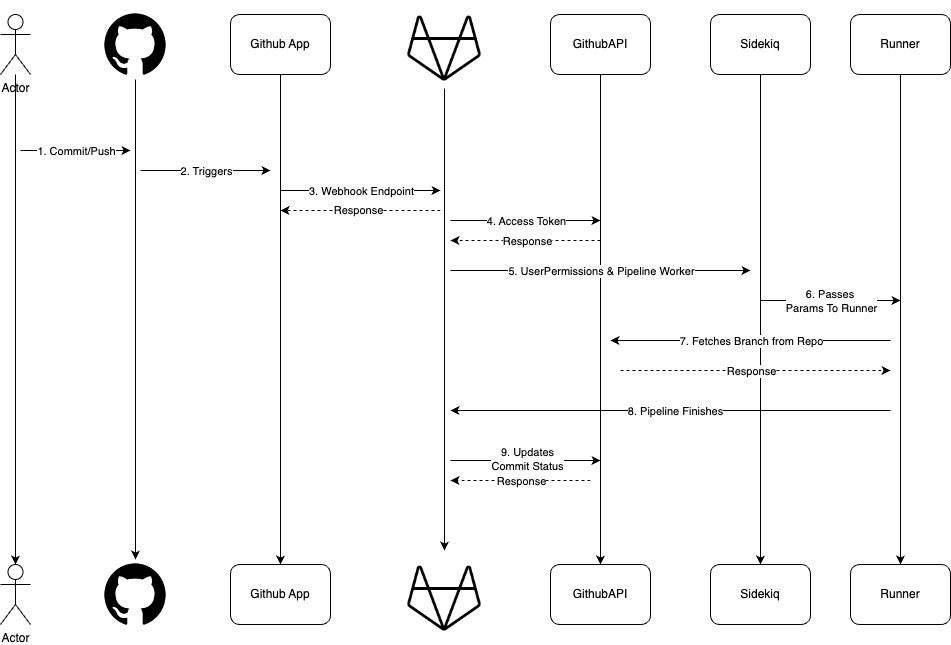
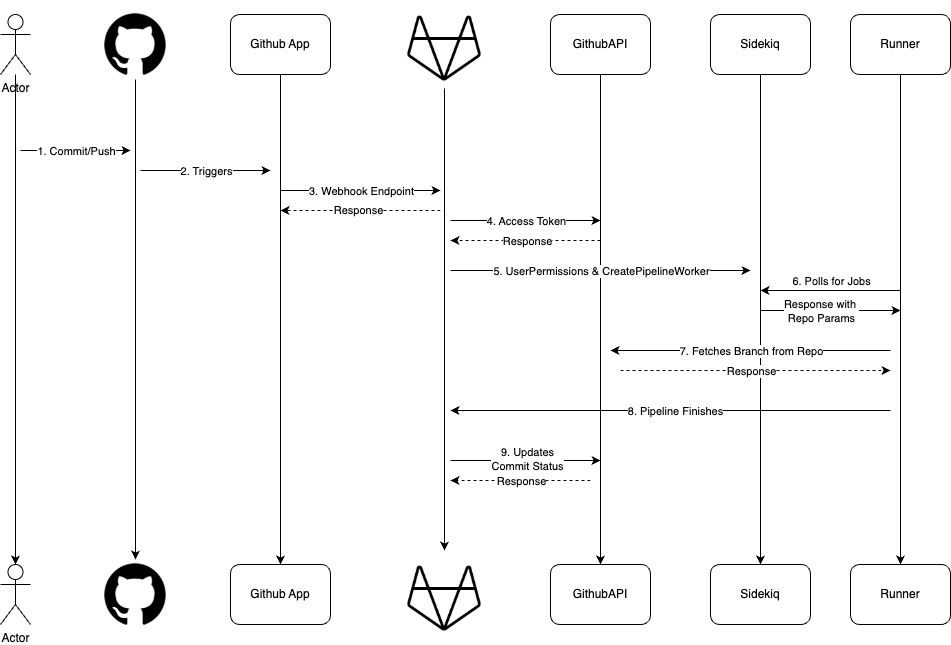
Addressing some more comments

Changed region(s): [[0.7014, 0.4341, 0.9453, 0.5581], [0.5184, 0.4031, 0.7624, 0.4341], [0.6404, 0.5271, 0.6709, 0.5581]]

diff --git a/content/handbook/engineering/architecture/design-documents/ci_pipelines_for_github/_index.md b/content/handbook/engineering/architecture/design-documents/ci_pipelines_for_github/_index.md
@@ -18,9 +18,9 @@ Some customers using Github Source Code Management want to integrate with Gitlab
 
 ## Motivation
 
-Our current approach with Github <-> Gitlab integration is with mirroring at a minimum 5 minute interval. This is too slow for feedback, uses long lived personal access tokens, and requires a copy of GitHub's source code on GitLab.
+Our current approach with Github <-> Gitlab integration is with mirroring at a minimum 5 minute interval. This is too slow for feedback, uses long lived personal access tokens, and requires a copy of GitHub's source code on GitLab. Additionally, as the entire project and all pipelines are run under the user that initiates the integration; this could lead to permission mismatch.
 
-With an adequate solution, we can sell our product to GitHub users that want Gitlab CI/CD.
+With an effective solution, we can sell GitLab CI/CD and other Ops features to business that use GitHub source control.
 
 There are similar tools in the market that can be used for GitHub to run CI/CD externally. [Buildkite, CircleCi, TeamCity, Jenkins](https://gitlab.com/gitlab-org/gitlab/-/issues/460503#note_2115425859) are examples where the runner pulls directly from GitHub. And where the pipelines config file can live either on GitHub or in the services.
 
@@ -28,9 +28,12 @@ There are similar tools in the market that can be used for GitHub to run CI/CD e
 
 As an initial MVC we want to support
 
-1. Near instant pipeline creation upon Github pushes
-2. Correct user management systems. Either through direct user mapping, or service accounts.
-3. Runners are the only place to interact (fetch/pull) with the source code.
+1. Near instant pipeline creation upon GitHub pushes
+2. Correct user management system, through direct user mapping
+    1. Each user on GitHub's side should have a billable seat on GitLab
+    2. Gitlab users should have the least privilege needed to run pipelines
+3. Runners are the only place to interact (fetch/pull) with the source code
+    1. Customer source code is stored in a GitHub Repo and is never stored in a GitLab repo
 
 ### Non-Goals
 
@@ -55,7 +58,7 @@ These are do-able, but just to reduce scope and complexity we can iterate on add
 ![Architecture](images/GithubGitlabWorkflow.png)
 
 Github will communicate with Gitlab via our GithubApp.
-Gitlab will then trigger sidekiq jobs to create runners which will pull from Github directly.
+When runners poll GitLab's api, GitLab will serialize the jobs including the GitHub repo location for the runner to fetch the code from.
 Gitlab will then use Github's API to update the commit with the pipeline status.
 
 Unfortunately there's nuances to this diagram regarding user management and access tokens that we'll explore below.
@@ -70,6 +73,7 @@ The steps here will be in accordance with the diagram above
 3. Gitlab will receive the push payload.
 4. Gitlab will use Installation Access Tokens (IAT) to exchange for a short lived token (1hr max)
     1. [Github docs for IAT](https://docs.github.com/en/apps/creating-github-apps/authenticating-with-a-github-app/authenticating-as-a-github-app-installation)
+    1. Each GitHub project will come with an Installation ID. GitLab will use a secure `.pem` key with this Installation ID to get a short-lived token for that project.
 5. Gitlab will use the webhook details for which email did the push. And try to run a pipeline with that user on Gitlab's side. If the user does not exist, the pipeline will be created but in a failed status. Any maintainer of the project can then retry the pipeline.
     1. The pipeline will be generated from a `.gitlab-ci.yml` present on Gitlab.com side.
 6. Rails will pass the necessary params including the IAT to the runner. It will also update the pipeline on Github side to "running" via Github API and IAT.
